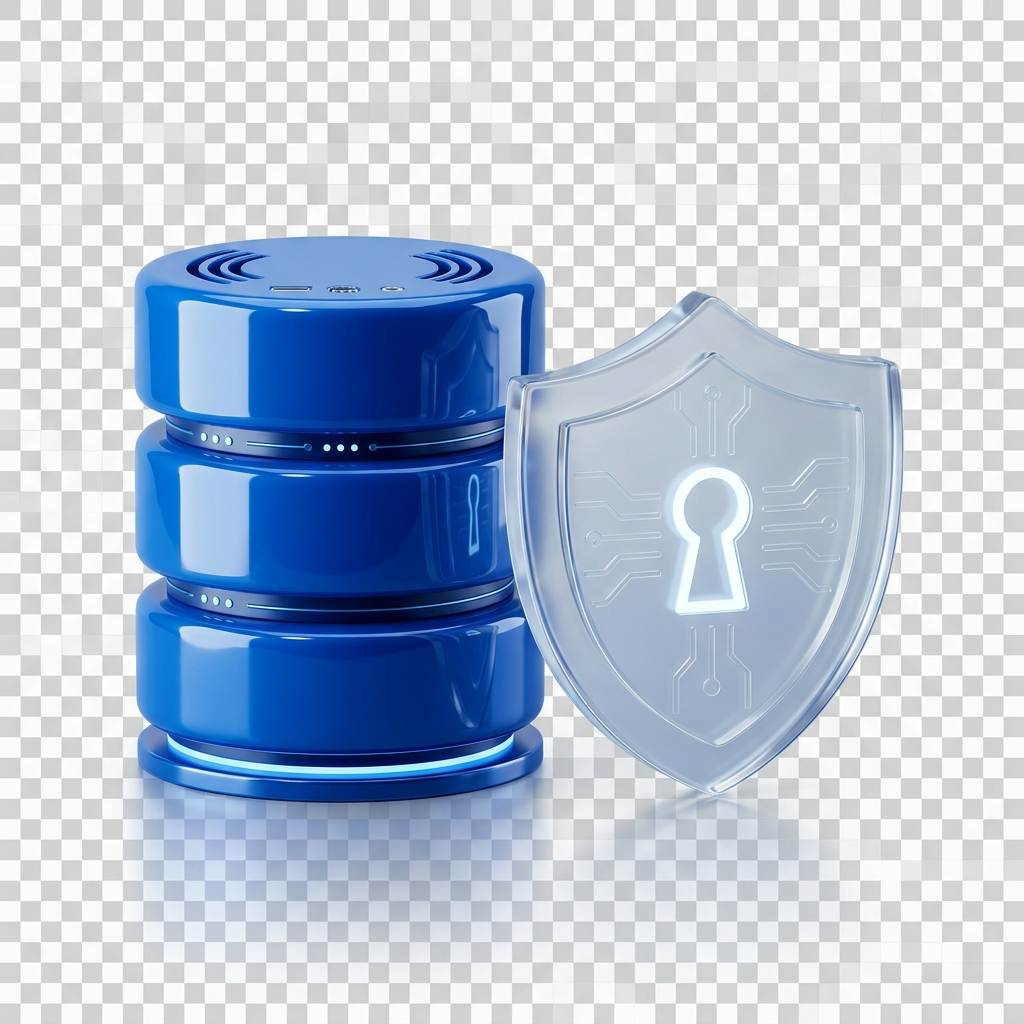
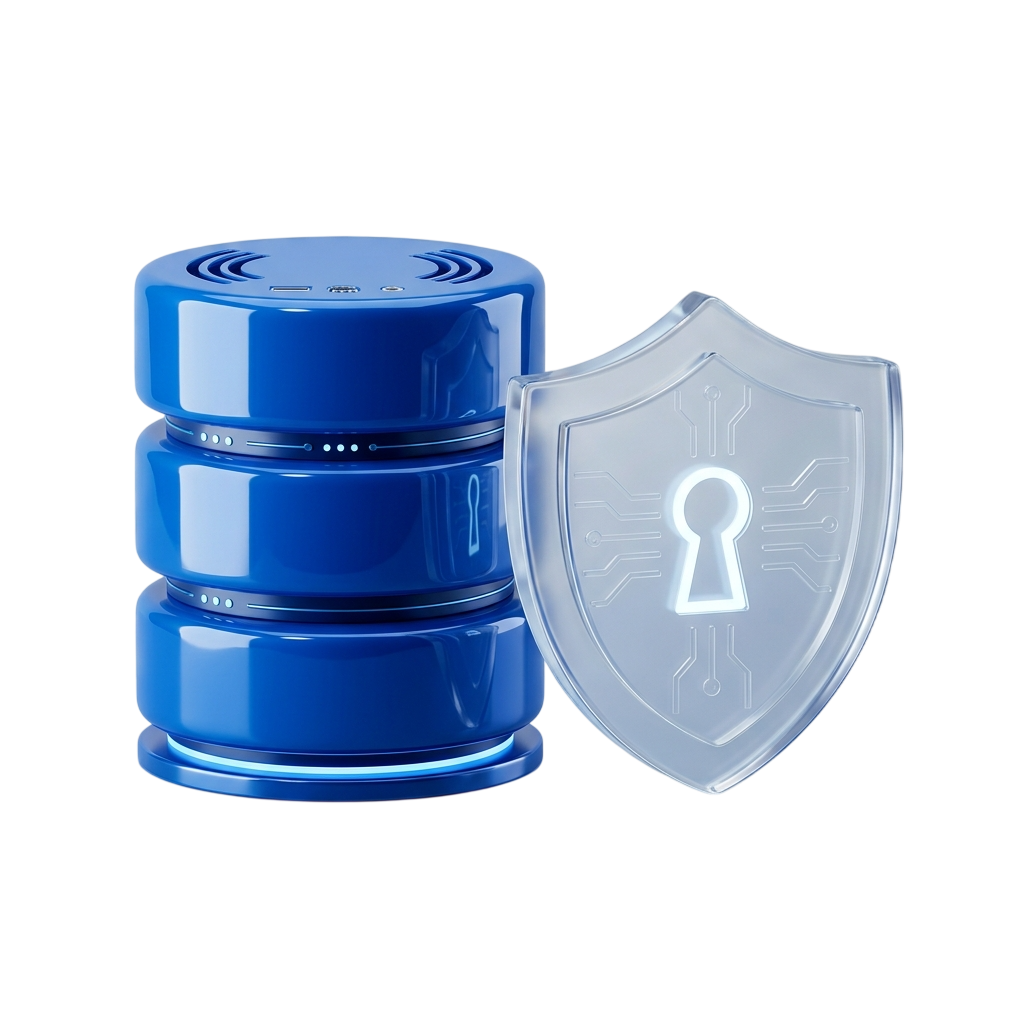
theme: default application to light mode and upgrade color contrast values

diff --git a/src/index.css b/src/index.css
@@ -1,41 +1,70 @@
 @import "tailwindcss";
 
-@theme {
-  /* Apple HIG Semantic Colors */
-  --color-system-blue: #007aff;
-  --color-system-red: #ff3b30;
-  --color-system-green: #34c759;
-  --color-system-orange: #ff9500;
-  
-  /* Light mode default, overridden by media query */
-  --color-bg-primary: #ffffff;
-  --color-bg-secondary: #f2f2f7;
-  --color-bg-tertiary: #e5e5ea;
-  
-  --color-text-primary: #000000;
-  --color-text-secondary: #3c3c43;
-  --color-text-tertiary: #3c3c434d;
-  
-  --color-border-primary: #c6c6c8;
-  --color-border-secondary: #e5e5ea;
-}
-
 @layer base {
   :root {
     color-scheme: light dark;
     --font-sans: -apple-system, BlinkMacSystemFont, "Segoe UI", Roboto, Helvetica, Arial, sans-serif;
     font-family: var(--font-sans);
+
+    /* Light Mode Contrast Upgrades */
+    --bg-primary: #ffffff;
+    --bg-secondary: #f3f4f6;
+    --bg-tertiary: #e5e7eb;
+    
+    --text-primary: #111111;
+    --text-secondary: #374151;
+    --text-tertiary: #6b7280;
+    
+    --border-primary: #9ca3af;
+    --border-secondary: #d1d5db;
+    
+    --system-blue: #007aff;
+    --system-red: #ff3b30;
+    --system-green: #34c759;
+    --system-orange: #ff9500;
+  }
+
+  .dark {
+    /* Dark Mode Contrast Upgrades */
+    --bg-primary: #0c0d0f;
+    --bg-secondary: #16171b;
+    --bg-tertiary: #222328;
+    
+    --text-primary: #f9fafb;
+    --text-secondary: #d1d5db;
+    --text-tertiary: #9ca3af;
+    
+    --border-primary: #4b5563;
+    --border-secondary: #374151;
   }
 
   body {
-    background-color: var(--color-bg-primary);
-    color: var(--color-text-primary);
+    background-color: var(--bg-primary);
+    color: var(--text-primary);
     margin: 0;
     padding: 0;
     overflow-x: hidden;
     -webkit-font-smoothing: antialiased;
     -moz-osx-font-smoothing: grayscale;
   }
+}
+
+@theme {
+  --color-system-blue: var(--system-blue);
+  --color-system-red: var(--system-red);
+  --color-system-green: var(--system-green);
+  --color-system-orange: var(--system-orange);
+  
+  --color-bg-primary: var(--bg-primary);
+  --color-bg-secondary: var(--bg-secondary);
+  --color-bg-tertiary: var(--bg-tertiary);
+  
+  --color-text-primary: var(--text-primary);
+  --color-text-secondary: var(--text-secondary);
+  --color-text-tertiary: var(--text-tertiary);
+  
+  --color-border-primary: var(--border-primary);
+  --color-border-secondary: var(--border-secondary);
 }
 
 /* Custom Scrollbar Styles for Airtable-style Data Grid */

diff --git a/src/App.tsx b/src/App.tsx
@@ -27,11 +27,10 @@ const App: React.FC = () => {
   const [isLaunchOpen, setIsLaunchOpen] = useState(false);
   const [isPatchNotesOpen, setIsPatchNotesOpen] = useState(false);
   
-  // Dark mode state
+  // Dark mode state (defaults to Light theme unless explicitly saved as dark)
   const [darkMode, setDarkMode] = useState(() => {
     if (typeof window !== 'undefined') {
-      return localStorage.getItem('theme') === 'dark' || 
-        (!localStorage.getItem('theme') && window.matchMedia('(prefers-color-scheme: dark)').matches);
+      return localStorage.getItem('theme') === 'dark';
     }
     return false;
   });